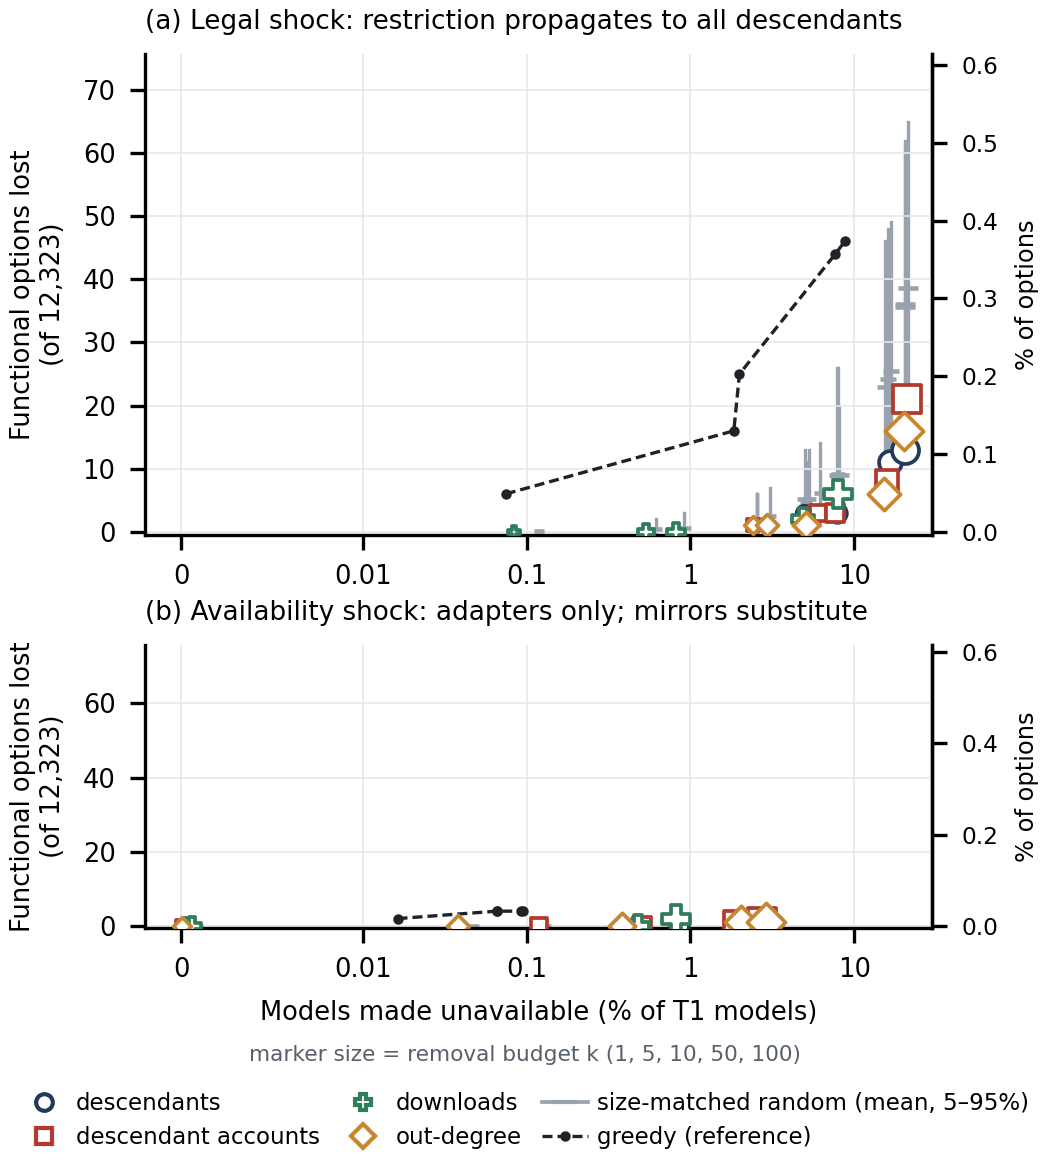
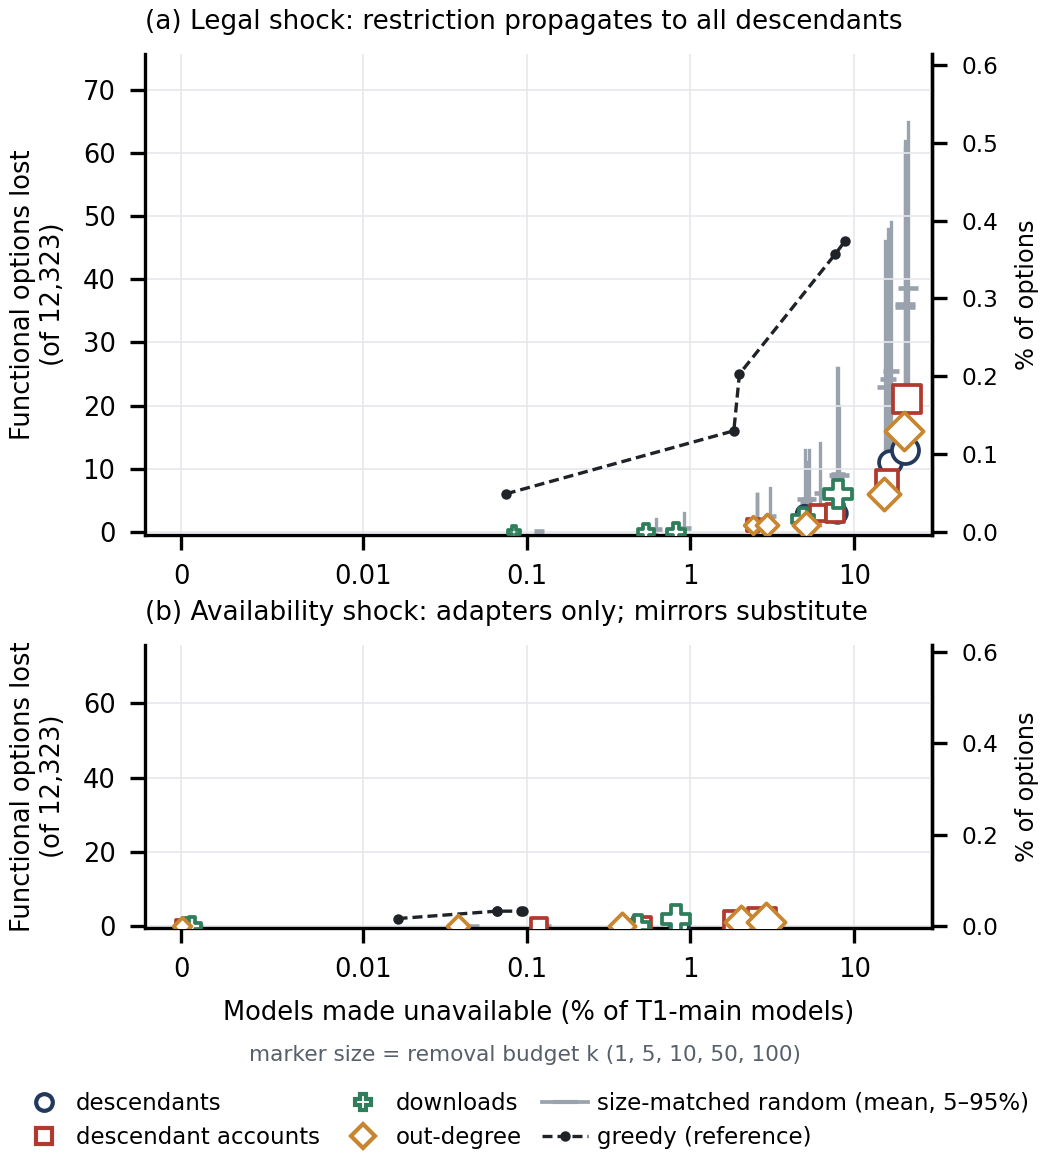
Final pre-submission fixes: supplement tables, figure label, manifest

Changed region(s): [[0.2133, 0.8308, 0.8229, 0.8923]]

diff --git a/03_code/04_analysis/make_supplement.py b/03_code/04_analysis/make_supplement.py
@@ -52,8 +52,8 @@ def planned_table():
     for lab, v in [("T1-original", v1), ("T0", v0)]:
         h1 = v["H1"]
         h3 = ", ".join(f"{esc(c)} {r:.2f}" for c, r in v["H3"]["ratios_including_own_class"].items())
-        summary.append(f"{lab} & {100 * h1['share_single_lineage']:.1f}\\% [{100 * h1['ci95'][0]:.1f}, "
-                       f"{100 * h1['ci95'][1]:.1f}] & {v['H2a']['k_significant']}/5 & {v['H2b']['k_significant']}/5 & "
+        summary.append(f"{lab} & {100 * h1['share_single_lineage']:.2f}\\% [{100 * h1['ci95'][0]:.2f}, "
+                       f"{100 * h1['ci95'][1]:.2f}] & {v['H2a']['k_significant']}/5 & {v['H2b']['k_significant']}/5 & "
                        f"{'supported' if v['H3']['supported'] else 'not supported'} ({h3}) \\\\")
     return "\n".join(lines), "\n".join(summary)
 
@@ -153,8 +153,13 @@ def rq1_table():
 
 def license_table():
     lm = pd.read_csv(ROOT / "03_code" / "03_simulation" / "license_map.csv").fillna("")
-    return "\n".join(f"\\texttt{{{esc(r.license)}}} & {esc(r['class'])} & {esc(r.commercial)} \\\\"
-                     for _, r in lm.iterrows())
+    # 분석에서 쓰는 정의 (removal_sim.COMMERCIAL_CLASSES) 를 따른다. license_map.csv 의 commercial 열은
+    # 라이선스 원문의 허용 여부라서 no-derivatives 가 yes 로 되어 있다 — 분석 정의와 다르므로 쓰지 않는다.
+    import sys
+    sys.path.insert(0, str(ROOT / "03_code" / "03_simulation"))
+    from removal_sim import COMMERCIAL_CLASSES
+    return "\n".join(f"\\texttt{{{esc(r.license)}}} & {esc(r['class'])} & "
+                     f"{'yes' if r['class'] in COMMERCIAL_CLASSES else 'no'} \\\\" for _, r in lm.iterrows())
 
 
 def company_table():
@@ -180,9 +185,9 @@ def validation_table():
     out = [f"{names[r['stratum']]} & {r['n']} & {r['A_correct']} ({r['A_pct']}\\%, {r['A_ci95']}) & "
            f"{r['B_correct']} ({r['B_pct']}\\%, {r['B_ci95']}) \\\\" for r in v["by_stratum"]]
     ag = v["agreement"]
-    return "\n".join(out), (f"{ag['percent_agree']}\\% agreement on {ag['n_both_decidable']} models both labelers "
-                            f"could decide; Cohen's $\\kappa$ = {ag['kappa_binary']} (binary), "
-                            f"{ag['kappa_3cat_all']} (three categories, all 300)")
+    return "\n".join(out), (f"{ag['percent_agree']}\\% on the {ag['n_both_decidable']} models that both labelers "
+                            f"could decide; Cohen's $\\kappa$ = {ag['kappa_binary']} (binary) and "
+                            f"{ag['kappa_3cat_all']} (three categories, all 300).%")
 
 
 def main():

diff --git a/03_code/04_analysis/fig_rq2_contrast.py b/03_code/04_analysis/fig_rq2_contrast.py
@@ -72,7 +72,7 @@ def main():
         ax.grid(color="#E5E7EB", lw=0.4)
         for sp in ["top"]:
             ax.spines[sp].set_visible(False)
-    axes[-1].set_xlabel("Models made unavailable (% of T1 models)")
+    axes[-1].set_xlabel("Models made unavailable (% of T1-main models)")
     handles = [Line2D([0], [0], marker=mk, ls="", mfc="white", mec=col, ms=4, label=lab) for _, lab, col, mk in STRAT]
     handles += [Line2D([0], [0], color="#9AA3AD", lw=0.9, marker="_", ms=6, label="size-matched random (mean, 5–95%)"),
                 Line2D([0], [0], color="#1F2328", lw=0.8, ls=(0, (3, 1.5)), marker=".", ms=3, label="greedy (reference)")]
